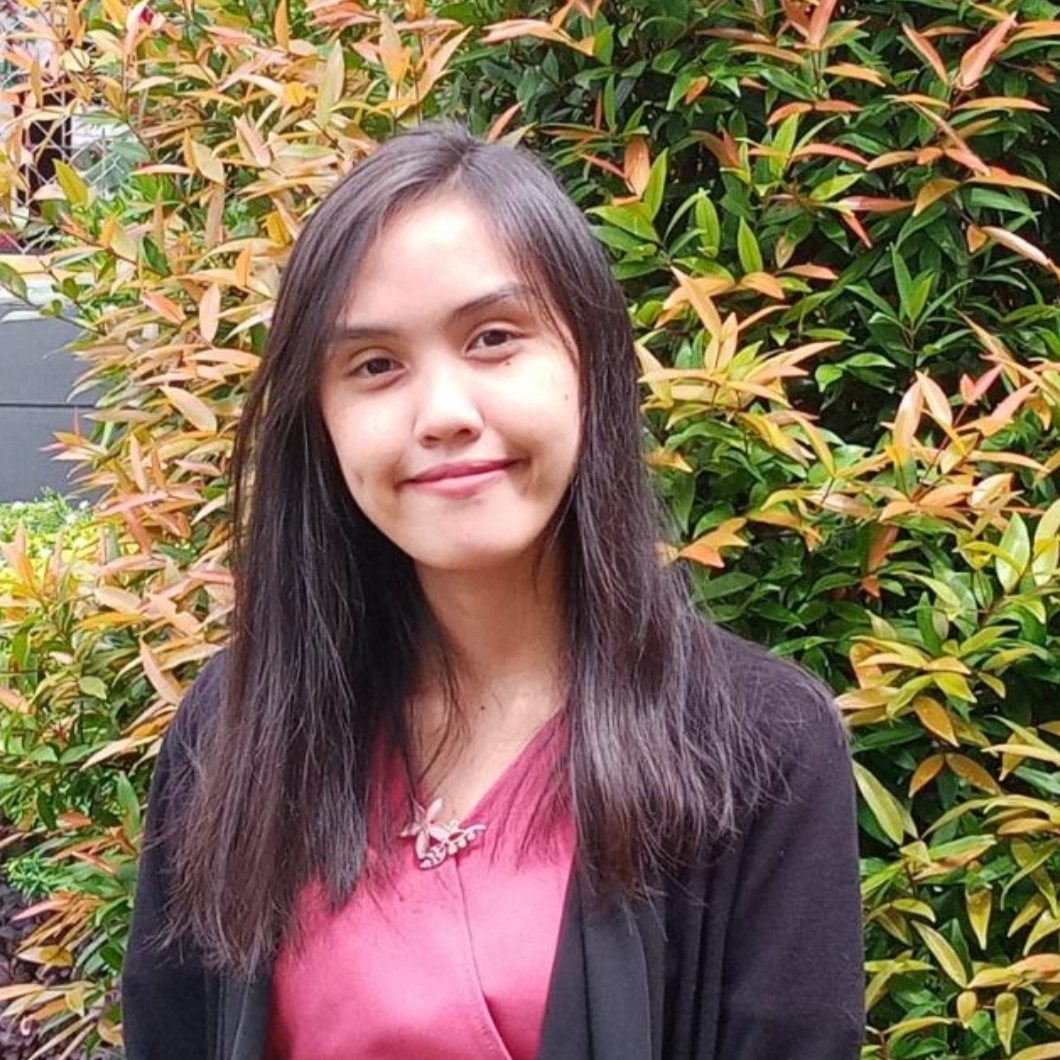
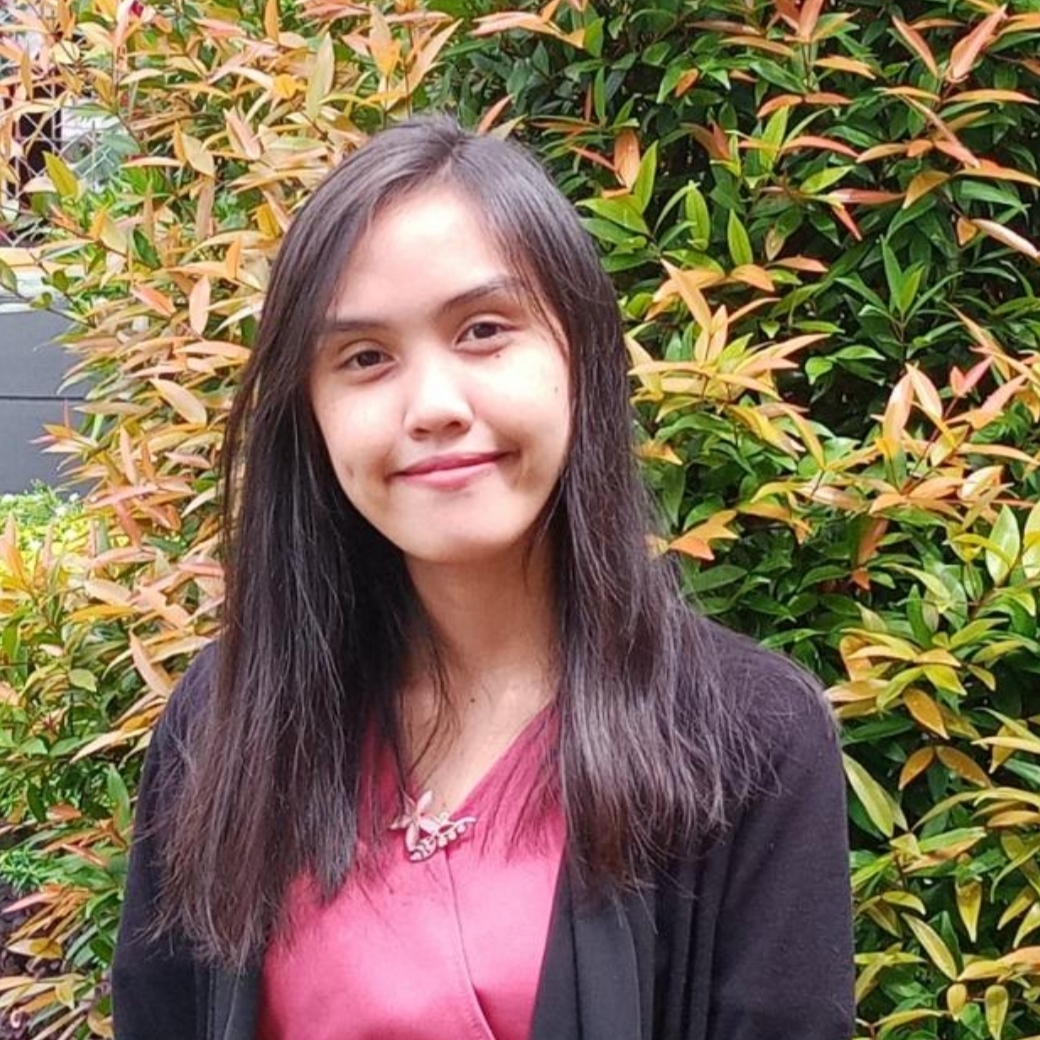
haduhcape

diff --git a/index.html b/index.html
@@ -166,7 +166,7 @@
             <div class="row g-5">
                 <div class="col-lg-6 wow fadeInUp" data-wow-delay="0.1s" style="min-height: 400px;">
                     <div class="position-relative h-100">
-                        <img class="img-fluid position-absolute w-100 h-100" src="img/about.jpg" alt="" style="object-fit: cover;">
+                        <img class="img-fluid position-absolute w-100 h-100" src="img/shortadultusa1.jpeg" alt="" style="object-fit: cover;">
                     </div>
                 </div>
                 <div class="col-lg-6 wow fadeInUp" data-wow-delay="0.3s">
@@ -254,7 +254,7 @@
                 </div>
                 <div class="col-lg-5 col-md-6 wow zoomIn" data-wow-delay="0.7s" style="min-height: 350px;">
                     <a class="position-relative d-block h-100 overflow-hidden" href="">
-                        <img class="img-fluid position-absolute w-100 h-100" src="img/shortadultusa1.jpeg" alt="" style="object-fit: cover;">
+                        <img class="img-fluid position-absolute w-100 h-100" src="img/shortadultusa0.jpeg" alt="" style="object-fit: cover;">
                         <div class="bg-white text-center position-absolute bottom-0 end-0 py-2 px-3" style="margin:  1px;">
                             <h5 class="m-0">Advanced</h5>
                             <small class="text-primary">50 Courses</small>

diff --git a/team.html b/team.html
@@ -197,7 +197,7 @@
                 <div class="col-lg-3 col-md-6 wow fadeInUp" data-wow-delay="0.1s">
                     <div class="team-item bg-light">
                         <div class="overflow-hidden">
-                            <img class="img-fluid" src="pictures/Mariele.jpeg" alt="">
+                            <img class="img-fluid" src="pictures/mariele.jpeg" alt="">
                         </div>
                         <div class="position-relative d-flex justify-content-center" style="margin-top: -23px;">
                             <div class="bg-light d-flex justify-content-center pt-2 px-1">

diff --git a/about.html b/about.html
@@ -166,7 +166,7 @@
             <div class="row g-5">
                 <div class="col-lg-6 wow fadeInUp" data-wow-delay="0.1s" style="min-height: 400px;">
                     <div class="position-relative h-100">
-                        <img class="img-fluid position-absolute w-100 h-100" src="img/about.jpg" alt="" style="object-fit: cover;">
+                        <img class="img-fluid position-absolute w-100 h-100" src="img/shortadultusa1.jpeg" alt="" style="object-fit: cover;">
                     </div>
                 </div>
                 <div class="col-lg-6 wow fadeInUp" data-wow-delay="0.3s">
